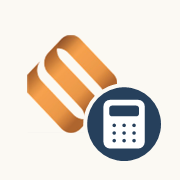
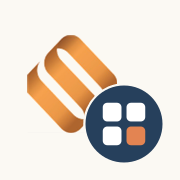
Renomeia app para App Sta Cruz, novos icones e corrige atalho de busca
- Nome "Orcamento(s)" vira "App Sta Cruz" (titulo, manifest, menu, barra mobile, login)
- Icones do PWA: selo de calculadora trocado por selo de sistema integrado (grade de modulos)
- Atalho da busca mostra "Ctrl K" no Windows/Linux e so usa o simbolo do Command no Mac

diff --git a/src/app/(app)/Sidebar.tsx b/src/app/(app)/Sidebar.tsx
@@ -1,6 +1,6 @@
 "use client";
 
-import { useState } from "react";
+import { useState, useSyncExternalStore } from "react";
 import Link from "next/link";
 import { usePathname } from "next/navigation";
 import {
@@ -36,6 +36,18 @@ type NavItem = {
 // Versão com identidade visual de ERP moderno da sidebarHtml() original (linhas 2980-3063):
 // cada item tem ícone + cor própria, com um leve "vidro tingido" no hover/ativo — reconstrói o
 // efeito --nav-color do HTML original, agora com Tailwind + CSS custom properties por item.
+// ⌘ só existe no teclado do Mac — no Windows/Linux o atalho é Ctrl+K (o command-palette já
+// aceita os dois) e o glifo ⌘ aparecia quebrado. useSyncExternalStore (como o ThemeToggle) dá
+// "Ctrl K" no servidor e na hidratação e troca pra ⌘K só no cliente Mac, sem mismatch.
+const semSubscricao = () => () => {};
+function useAtalhoBusca(): string {
+  return useSyncExternalStore(
+    semSubscricao,
+    () => (/Mac|iPhone|iPad/i.test(navigator.platform || navigator.userAgent) ? "⌘K" : "Ctrl K"),
+    () => "Ctrl K",
+  );
+}
+
 function SidebarContent({
   nome,
   perfilNome,
@@ -44,6 +56,7 @@ function SidebarContent({
   onNavigate,
 }: Props & { mobile?: boolean; onNavigate?: () => void }) {
   const pathname = usePathname();
+  const atalhoBusca = useAtalhoBusca();
   const logado = !!nome;
 
   const items: NavItem[] = logado
@@ -67,7 +80,7 @@ function SidebarContent({
                 otimizador do next/image rejeita este PNG específico ("not a valid image") */}
             <img src="/logo-santa-cruz.png" alt="Santa Cruz" width={28} height={28} />
           </span>
-          <h1 className="flex-1 font-serif text-lg font-semibold tracking-tight text-foreground">Orçamentos</h1>
+          <h1 className="flex-1 font-serif text-lg font-semibold tracking-tight text-foreground">App Sta Cruz</h1>
           {!mobile && <ThemeToggle />}
         </div>
         <div className="font-mono text-[10px] tracking-widest text-muted-foreground">SANTA CRUZ IND. GRÁFICA</div>
@@ -84,7 +97,7 @@ function SidebarContent({
         >
           <Search className="h-3.5 w-3.5 shrink-0" />
           <span className="flex-1">Buscar…</span>
-          <kbd className="max-md:hidden rounded border border-border bg-background px-1.5 py-0.5 font-mono text-[10px]">⌘K</kbd>
+          <kbd className="max-md:hidden rounded border border-border bg-background px-1.5 py-0.5 font-mono text-[10px]">{atalhoBusca}</kbd>
         </button>
       )}
 
@@ -171,7 +184,7 @@ export function MobileNav(props: Props) {
       <Link href={logado ? "/painel" : "/novo"} className="flex min-w-0 flex-1 items-center gap-2 no-underline">
         {/* eslint-disable-next-line @next/next/no-img-element -- mesmo motivo do logo da Sidebar */}
         <img src="/logo-santa-cruz.png" alt="" width={26} height={26} />
-        <span className="truncate font-serif text-base font-semibold text-foreground">Orçamentos</span>
+        <span className="truncate font-serif text-base font-semibold text-foreground">App Sta Cruz</span>
       </Link>
       {logado && (
         <Button
@@ -189,7 +202,7 @@ export function MobileNav(props: Props) {
       <Sheet open={aberto} onOpenChange={setAberto}>
         <SheetContent side="left" className="w-[86vw]! max-w-[320px]! gap-5 overflow-y-auto px-3.5 py-5">
           <SheetTitle className="sr-only">Menu</SheetTitle>
-          <SheetDescription className="sr-only">Navegação do sistema de orçamentos</SheetDescription>
+          <SheetDescription className="sr-only">Navegação do App Sta Cruz</SheetDescription>
           <SidebarContent {...props} mobile onNavigate={() => setAberto(false)} />
         </SheetContent>
       </Sheet>

diff --git a/src/app/layout.tsx b/src/app/layout.tsx
@@ -31,8 +31,8 @@ const fraunces = Fraunces({
 });
 
 export const metadata: Metadata = {
-  title: "Orçamento Santa Cruz",
-  description: "Sistema interno de orçamentos da Santa Cruz Ind. Gráfica",
+  title: "App Sta Cruz",
+  description: "Sistema integrado da Santa Cruz Ind. Gráfica",
   // apple-touch-icon e o título de tela cheia do iOS não vêm do manifest.ts (o Safari ignora
   // manifest para "Adicionar à Tela de Início") — precisam desses meta tags/links próprios.
   icons: {
@@ -42,7 +42,7 @@ export const metadata: Metadata = {
   appleWebApp: {
     capable: true,
     statusBarStyle: "default",
-    title: "Orçamento SC",
+    title: "App Sta Cruz",
   },
 };
 

diff --git a/src/app/login/LoginForm.tsx b/src/app/login/LoginForm.tsx
@@ -27,7 +27,7 @@ export function LoginForm({ usuarios }: { usuarios: Usuario[] }) {
         {/* eslint-disable-next-line @next/next/no-img-element -- logo pequeno e fixo */}
         <img src="/logo-santa-cruz.png" alt="Santa Cruz" width={44} height={44} />
         <div>
-          <h1 className="font-serif text-xl font-semibold text-foreground">Orçamentos</h1>
+          <h1 className="font-serif text-xl font-semibold text-foreground">App Sta Cruz</h1>
           <p className="font-mono text-[10px] tracking-widest text-muted-foreground">SANTA CRUZ IND. GRÁFICA</p>
         </div>
       </CardHeader>

diff --git a/src/app/login/PrimeiroAdminForm.tsx b/src/app/login/PrimeiroAdminForm.tsx
@@ -16,7 +16,7 @@ export function PrimeiroAdminForm() {
         {/* eslint-disable-next-line @next/next/no-img-element -- logo pequeno e fixo */}
         <img src="/logo-santa-cruz.png" alt="Santa Cruz" width={44} height={44} />
         <div>
-          <h1 className="font-serif text-xl font-semibold text-foreground">Orçamentos</h1>
+          <h1 className="font-serif text-xl font-semibold text-foreground">App Sta Cruz</h1>
           <p className="font-mono text-[10px] tracking-widest text-muted-foreground">SANTA CRUZ IND. GRÁFICA</p>
         </div>
       </CardHeader>

diff --git a/src/app/manifest.ts b/src/app/manifest.ts
@@ -6,9 +6,9 @@ import type { MetadataRoute } from "next";
 // própria (sem barra de endereço) em vez de numa aba comum.
 export default function manifest(): MetadataRoute.Manifest {
   return {
-    name: "Orçamento Santa Cruz",
-    short_name: "Orçamento SC",
-    description: "Sistema interno de orçamentos da Santa Cruz Ind. Gráfica",
+    name: "App Sta Cruz",
+    short_name: "App Sta Cruz",
+    description: "Sistema integrado da Santa Cruz Ind. Gráfica",
     start_url: "/",
     display: "standalone",
     background_color: "#EDE7DA",
